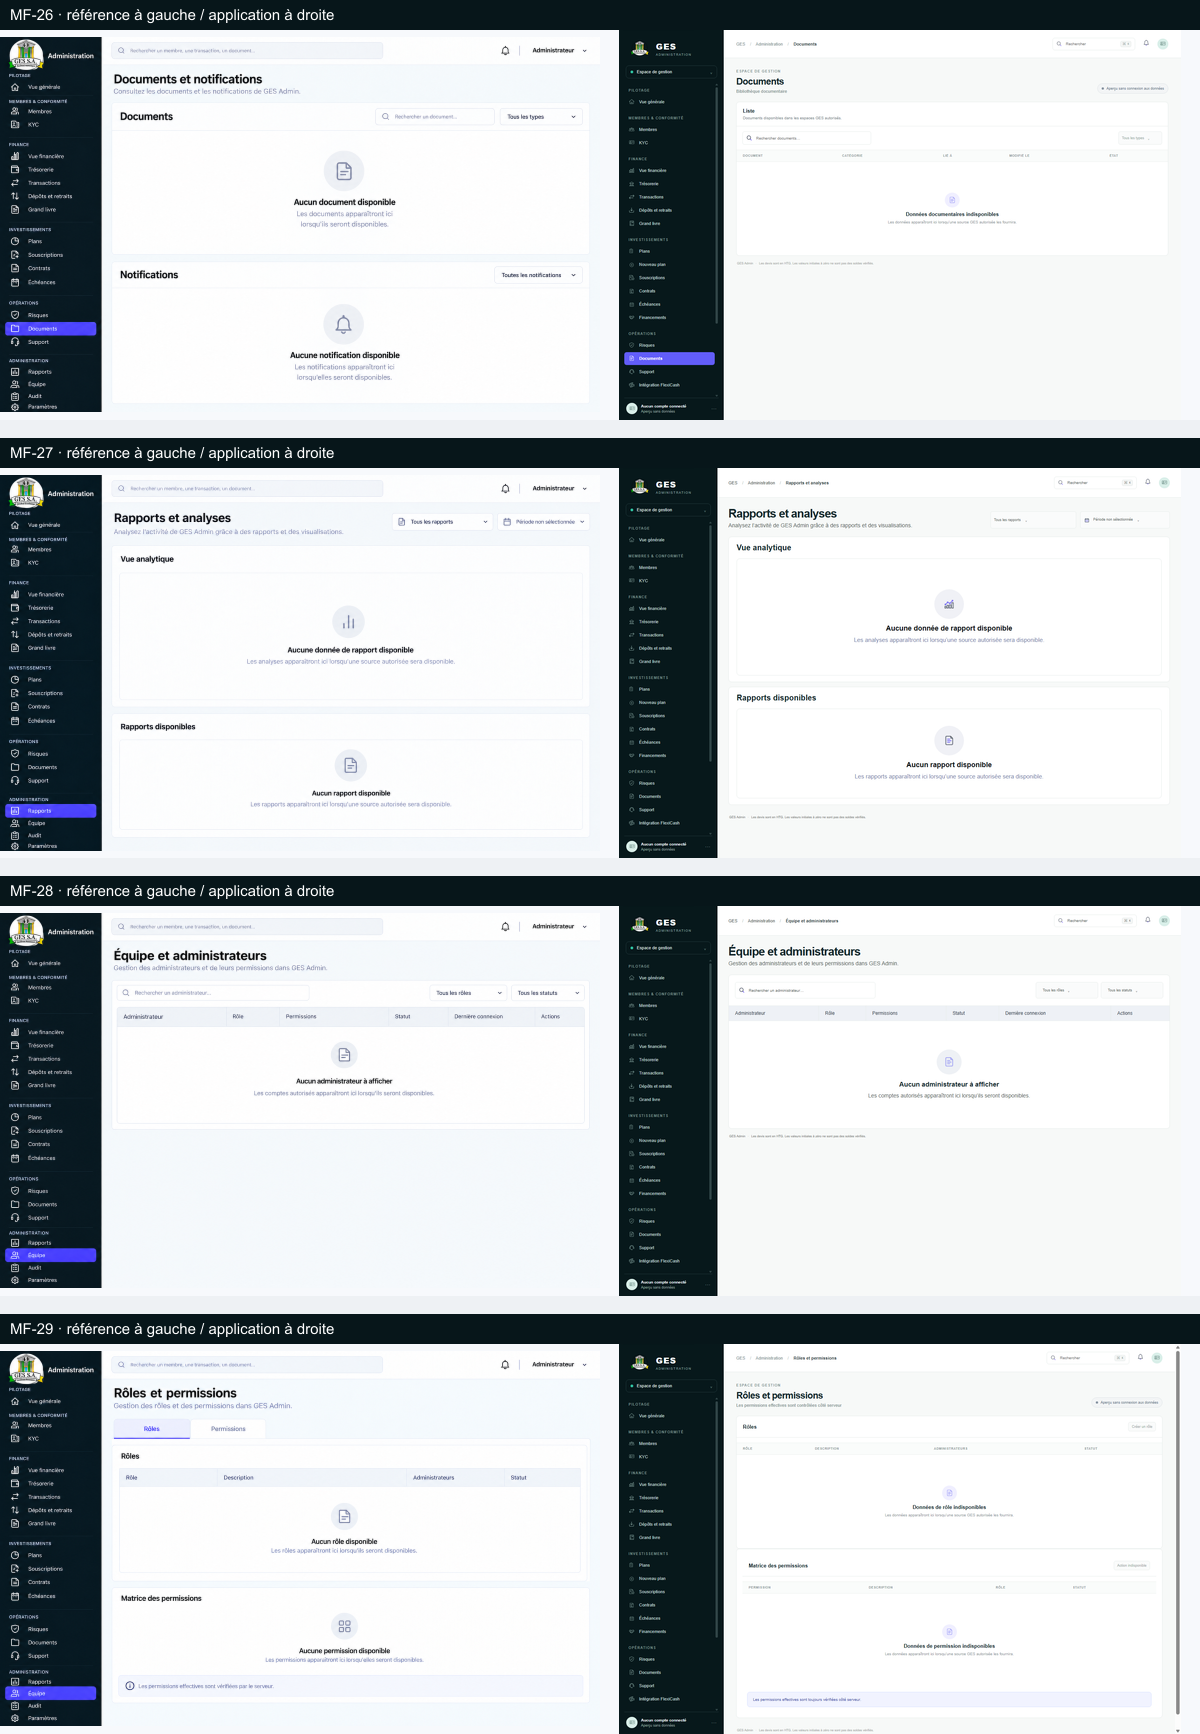
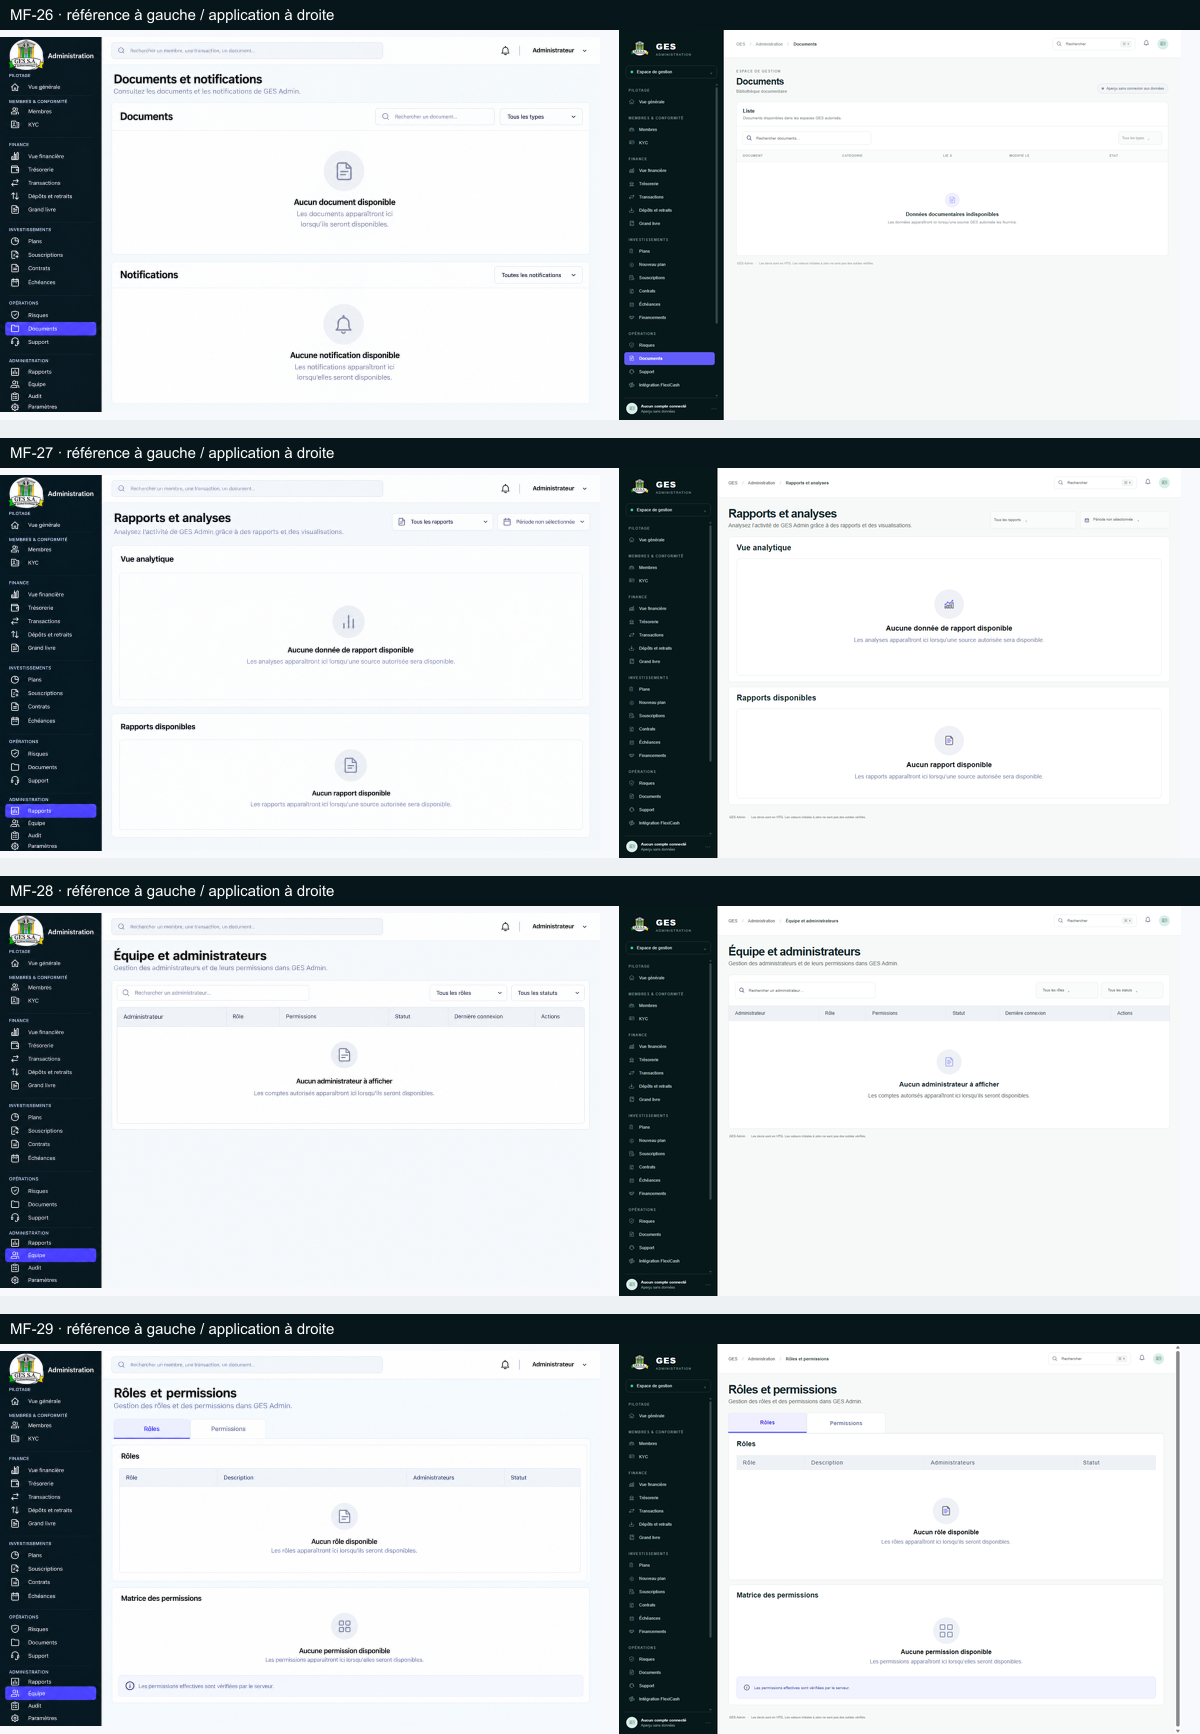
Align roles and permissions with MF-29

Changed region(s): [[0.5858, 0.7785, 0.74, 1.0], [0.74, 0.8408, 0.8325, 0.9031], [0.74, 0.9343, 0.8325, 0.9654]]

diff --git a/components/admin-shell.tsx b/components/admin-shell.tsx
@@ -26,7 +26,7 @@ const pages: Record<string, { title: string; subtitle: string }> = {
   "vue-financiere": { title: "Vue financière générale", subtitle: "Aperçu de la position financière de GES Admin en HTG et USD." }, tresorerie: { title: "Trésorerie", subtitle: "Positions de trésorerie" }, transactions: { title: "Transactions", subtitle: "Consultez et gérez l’ensemble des transactions." },
   "depots-retraits": { title: "Dépôts et retraits", subtitle: "Suivi des mouvements entrants et sortants" }, "grand-livre": { title: "Grand livre et rapprochement", subtitle: "Consultation du grand livre comptable et rapprochement des soldes." }, plans: { title: "Catalogue des plans d’investissement", subtitle: "Vue d’ensemble des plans d’investissement autorisés sur GES Admin." },
   souscriptions: { title: "Souscriptions", subtitle: "Vue d’ensemble des souscriptions effectuées sur GES Admin." }, contrats: { title: "Contrats d’investissement", subtitle: "Liste des contrats d’investissement enregistrés dans GES Admin." }, echeances: { title: "Échéances et distributions", subtitle: "Suivi des échéances et des distributions de capital et d’intérêts." }, financements: { title: "Financements GES", subtitle: "Gestion des dossiers de financement du GES Admin." }, "plans/nouveau": { title: "Nouveau plan d’investissement", subtitle: "Créer un nouveau plan d’investissement (brouillon)." },
-  risques: { title: "Risques et alertes", subtitle: "Surveillance des risques et des alertes de GES Admin." }, documents: { title: "Documents et notifications", subtitle: "Consultez les documents et les notifications de GES Admin." }, support: { title: "Assistance et tickets", subtitle: "Liste des demandes d’assistance et de support de GES Admin." }, rapports: { title: "Rapports et analyses", subtitle: "Analysez l’activité de GES Admin grâce à des rapports et des visualisations." }, equipe: { title: "Équipe et administrateurs", subtitle: "Gestion des administrateurs et de leurs permissions dans GES Admin." }, audit: { title: "Audit", subtitle: "Journal des actions administratives" }, parametres: { title: "Paramètres", subtitle: "Configuration de l’espace" }, notifications: { title: "Notifications", subtitle: "Centre de notifications administratives" }, "roles-permissions": { title: "Rôles et permissions", subtitle: "Les permissions effectives sont contrôlées côté serveur" }, "integrations-flexicash": { title: "Intégration FlexiCash", subtitle: "Les espaces GES et FlexiCash restent séparés" },
+  risques: { title: "Risques et alertes", subtitle: "Surveillance des risques et des alertes de GES Admin." }, documents: { title: "Documents et notifications", subtitle: "Consultez les documents et les notifications de GES Admin." }, support: { title: "Assistance et tickets", subtitle: "Liste des demandes d’assistance et de support de GES Admin." }, rapports: { title: "Rapports et analyses", subtitle: "Analysez l’activité de GES Admin grâce à des rapports et des visualisations." }, equipe: { title: "Équipe et administrateurs", subtitle: "Gestion des administrateurs et de leurs permissions dans GES Admin." }, audit: { title: "Audit", subtitle: "Journal des actions administratives" }, parametres: { title: "Paramètres", subtitle: "Configuration de l’espace" }, notifications: { title: "Notifications", subtitle: "Centre de notifications administratives" }, "roles-permissions": { title: "Rôles et permissions", subtitle: "Gestion des rôles et des permissions dans GES Admin." }, "integrations-flexicash": { title: "Intégration FlexiCash", subtitle: "Les espaces GES et FlexiCash restent séparés" },
 };
 
 const detailPages: Record<string, { title: string; subtitle: string }> = {
@@ -148,7 +148,7 @@ export function AdminShell({ section }: { section: string }) {
     </aside>
     {menuOpen && <button className="drawer-backdrop visible" type="button" aria-label="Fermer le menu" tabIndex={-1} onClick={closeMenu}/>}
     <main className="main-area" id="main-content" tabIndex={-1} inert={menuOpen}><header className="topbar"><button ref={menuButtonRef} className="mobile-menu-toggle" onClick={() => menuOpen ? closeMenu() : setMenuOpen(true)} aria-label={menuOpen ? "Fermer le menu" : "Ouvrir le menu"} aria-expanded={menuOpen} aria-controls="primary-navigation">{menuOpen ? <Image src="/assets/icons/close.webp" alt="" width={19} height={19}/> : <span className="menu-bars" aria-hidden="true"/>}</button><div className="breadcrumb">GES <span>/</span> Administration <span>/</span> <b>{page.title}</b></div><div className="top-actions"><label className="search"><Image src="/assets/icons/search.webp" alt="" width={15} height={15}/><input placeholder="Rechercher" aria-label="Rechercher" value={searchQuery} onChange={(event) => setSearchQuery(event.target.value)}/><kbd>⌘ K</kbd></label><Link href="/admin/notifications" className="bell" aria-label="Notifications"><Image src="/assets/icons/notification.webp" alt="" width={19} height={19}/></Link><div className="top-avatar"><Image src="/assets/icons/identity.webp" alt="" width={16} height={16}/></div></div></header>
-      <div className={`content ${key === "plans/nouveau" ? "plan-content" : ""}`}>{key === "souscriptions/dossier" && <Link className="detail-back" href="/admin/souscriptions">← Retour aux souscriptions</Link>}{key === "contrats/dossier" && <Link className="detail-back" href="/admin/contrats">← Retour aux contrats</Link>}{key === "risques/incident" && <Link className="detail-back" href="/admin/risques">← Retour aux alertes</Link>}{key === "support/conversation" && <Link className="detail-back" href="/admin/support">← Retour aux tickets</Link>}<div className="page-heading"><div>{key !== "transactions" && key !== "souscriptions/dossier" && key !== "contrats/dossier" && key !== "risques/incident" && key !== "support/conversation" && key !== "documents" && key !== "rapports" && key !== "equipe" && <div className="eyebrow">ESPACE DE GESTION</div>}<h1>{page.title}</h1>{page.subtitle && <p>{page.subtitle}</p>}</div><div className="heading-actions">{key === "rapports" && <div className="reports-page-filters"><button className="filter-button" disabled>Tous les rapports <span>⌄</span></button><button className="filter-button" disabled><Image src="/assets/icons/calendar.webp" alt="" width={16} height={16}/> Période non sélectionnée <span>⌄</span></button></div>}{key !== "souscriptions/dossier" && key !== "contrats/dossier" && key !== "risques/incident" && key !== "support/conversation" && key !== "documents" && key !== "rapports" && key !== "equipe" && <span className="status-pill preview-pill"><i/> Aperçu sans connexion aux données</span>}</div></div>
+      <div className={`content ${key === "plans/nouveau" ? "plan-content" : ""}`}>{key === "souscriptions/dossier" && <Link className="detail-back" href="/admin/souscriptions">← Retour aux souscriptions</Link>}{key === "contrats/dossier" && <Link className="detail-back" href="/admin/contrats">← Retour aux contrats</Link>}{key === "risques/incident" && <Link className="detail-back" href="/admin/risques">← Retour aux alertes</Link>}{key === "support/conversation" && <Link className="detail-back" href="/admin/support">← Retour aux tickets</Link>}<div className="page-heading"><div>{key !== "transactions" && key !== "souscriptions/dossier" && key !== "contrats/dossier" && key !== "risques/incident" && key !== "support/conversation" && key !== "documents" && key !== "rapports" && key !== "equipe" && key !== "roles-permissions" && <div className="eyebrow">ESPACE DE GESTION</div>}<h1>{page.title}</h1>{page.subtitle && <p>{page.subtitle}</p>}</div><div className="heading-actions">{key === "rapports" && <div className="reports-page-filters"><button className="filter-button" disabled>Tous les rapports <span>⌄</span></button><button className="filter-button" disabled><Image src="/assets/icons/calendar.webp" alt="" width={16} height={16}/> Période non sélectionnée <span>⌄</span></button></div>}{key !== "souscriptions/dossier" && key !== "contrats/dossier" && key !== "risques/incident" && key !== "support/conversation" && key !== "documents" && key !== "rapports" && key !== "equipe" && key !== "roles-permissions" && <span className="status-pill preview-pill"><i/> Aperçu sans connexion aux données</span>}</div></div>
       {key === "notifications" ? <NotificationsWorkspace query={searchQuery} onQueryChange={setSearchQuery}/> : key === "plans/nouveau" ? <><Link href="/admin/plans" className="plan-back">← Retour aux plans</Link><PlanForm/></> : overview ? <>{financial && <div className="module-notice">Valeurs initiales — les montants affichés sont à confirmer et ne constituent pas des soldes vérifiés.</div>}<div className={`metric-grid ${financial ? "financial-metrics" : ""}`}>{metrics.map(([label,value,caption])=><MetricCard key={label} label={label} value={value} caption={caption}/>)}</div>
       {financial && <UsdUnavailable/>}
       <div className={`overview-grid ${financial ? "financial-overview-grid" : "command-overview-grid"}`}><section className="panel"><div className="panel-head"><div><h2>{financial ? "Tendance de trésorerie" : "Tendance financière"}</h2></div>{financial && <button className="select-button" disabled title="Les données sont indisponibles">Période⌄</button>}</div><div className="chart-empty"><div className="chart-lines"><span/><span/><span/><span/></div><div className="chart-message">Aucune donnée disponible</div></div></section><section className="panel breakdown"><div className="panel-head"><div><h2>{financial ? "Obligations à venir" : "Répartition des investissements"}</h2></div>{financial && <button className="dots" disabled aria-label="Options indisponibles">···</button>}</div>{financial ? <div className="donut-wrap"><p>Aucune donnée disponible</p></div> : <div className="donut-wrap"><div className="donut"><div/></div><p>Aucune donnée disponible</p></div>}</section></div>

diff --git a/app/globals.css b/app/globals.css
@@ -77,3 +77,7 @@ a:focus-visible,button:focus-visible,input:focus-visible,select:focus-visible,te
 .reports-page-filters{display:flex;align-items:center;gap:10px}.reports-page-filters .filter-button{height:44px;min-width:220px;text-align:left}.reports-page-filters .filter-button:last-child{min-width:230px}.reports-page-filters .filter-button img{vertical-align:middle;margin-right:6px}.reports-analysis-panel,.reports-list-panel{padding:16px 20px;margin-bottom:12px}.reports-analysis-panel>h2,.reports-list-panel>h2{margin:0 0 16px;font:700 20px Arial,Helvetica,sans-serif}.reports-empty-state{min-height:300px;border:1px solid var(--line);border-radius:8px;display:flex;align-items:center;justify-content:center;flex-direction:column;text-align:center;padding:20px}.reports-list-panel .reports-empty-state{min-height:230px}.reports-empty-icon{width:76px;height:76px;border-radius:50%;background:#f0f1f6;display:grid;place-items:center;margin-bottom:14px}.reports-empty-icon img{width:30px;height:30px;opacity:.72}.reports-empty-state strong{font-size:18px;color:#101418}.reports-empty-state p{max-width:600px;margin:8px 0 0;color:#7c88ac;font-size:15px;line-height:1.5}@media(max-width:760px){.reports-page-filters{flex:1 1 100%;flex-wrap:wrap;gap:6px}.reports-page-filters .filter-button,.reports-page-filters .filter-button:last-child{flex:1;min-width:160px;height:38px}.reports-analysis-panel,.reports-list-panel{padding:13px}.reports-analysis-panel>h2,.reports-list-panel>h2{font-size:16px}.reports-empty-state{min-height:230px;padding:16px}.reports-list-panel .reports-empty-state{min-height:200px}.reports-empty-icon{width:64px;height:64px}.reports-empty-state strong{font-size:15px}.reports-empty-state p{font-size:12px}}
 .team-list-panel .module-empty{min-height:240px}.team-list-panel .module-empty h2{font-size:17px}.team-list-panel .module-empty p{font-size:14px}.team-list-panel .module-empty-icon{background:#eef1f5}
 .team-list-panel .module-empty{min-height:275px}.team-list-panel th{background:#eef1f6;border-right:1px solid var(--line);color:#3f4d57}.team-list-panel th:last-child{border-right:0}.team-list-panel .table-wrap{scrollbar-width:none}.team-list-panel .table-wrap::-webkit-scrollbar{display:none}
+.role-permission-tabs{display:flex;align-items:stretch;border-bottom:1px solid var(--line);margin:0 0 0 -1px}.role-permission-tabs button{min-width:202px;height:52px;border:1px solid var(--line);border-bottom:0;border-radius:8px 8px 0 0;background:#fff;color:#7c88ac;font:600 14px Arial,sans-serif;cursor:pointer}.role-permission-tabs button.selected{background:#f0efff;color:#514be6;border-bottom:3px solid #625dfa}.role-list-panel,.permission-matrix-panel{padding:16px 20px;margin:0 0 12px}.role-list-panel>h2,.permission-matrix-panel>h2{margin:0 0 18px;font:700 18px Arial,Helvetica,sans-serif}.role-list-panel th{background:#eef1f6;border-right:1px solid var(--line);text-transform:none;font-size:14px;font-weight:500;color:#43505e}.role-permission-empty{min-height:225px;display:flex;align-items:center;justify-content:center;flex-direction:column;text-align:center;padding:18px}.permission-matrix-panel .role-permission-empty{min-height:180px}.role-permission-empty-icon{height:68px;width:68px;margin-bottom:12px;border-radius:50%;background:#eef1f6;display:grid;place-items:center}.role-permission-empty-icon img{width:30px;height:30px;opacity:.75}.role-permission-empty strong{font-size:16px;color:#11181b}.role-permission-empty p{margin:5px 0 0;color:#7c88ac;font-size:14px;line-height:1.5}.permission-matrix-panel .module-notice{display:flex;align-items:center;gap:10px;min-height:56px;margin:0;padding:10px 16px}.permission-matrix-panel .module-notice img{flex:0 0 auto}.role-list-panel .table-wrap{overflow-x:auto}@media(max-width:700px){.role-permission-tabs button{min-width:0;flex:1}.role-list-panel,.permission-matrix-panel{padding:13px}.role-list-panel>h2,.permission-matrix-panel>h2{font-size:16px}.role-list-panel th{white-space:nowrap}.role-permission-empty{min-height:190px}.permission-matrix-panel .role-permission-empty{min-height:175px}.role-permission-empty strong{font-size:14px}.role-permission-empty p{font-size:12px}.permission-matrix-panel .module-notice{align-items:flex-start;font-size:9px}}
+.role-list-panel .role-permission-empty{min-height:265px}.permission-grid-icon{height:68px;width:68px;margin-bottom:12px;border-radius:50%;background:#eef1f6;display:grid;grid-template-columns:repeat(2,14px);grid-template-rows:repeat(2,14px);align-content:center;justify-content:center;gap:5px}.permission-grid-icon i{border:2px solid #7c88ac;border-radius:3px}
+@media(max-width:700px){.role-list-panel .table-wrap{overflow-x:hidden}.role-list-panel table{width:100%;min-width:0;table-layout:fixed}.role-list-panel th{padding:8px 4px;font-size:9px;white-space:normal}.role-list-panel tbody,.role-list-panel tbody tr,.role-list-panel tbody td{display:block;width:100%}.role-list-panel tbody td{padding:0}.role-list-panel .role-permission-empty{box-sizing:border-box;width:100%;min-height:185px;padding:14px 8px}.role-list-panel .role-permission-empty strong{font-size:13px}.role-list-panel .role-permission-empty p{font-size:11px}.role-list-panel .role-permission-empty-icon{width:56px;height:56px}}
+@media(max-width:700px){.role-list-panel .role-permission-empty{width:calc(100vw - 56px);flex:0 0 auto}.role-list-panel .role-permission-empty p{max-width:100%}}

diff --git a/components/module-workspace.tsx b/components/module-workspace.tsx
@@ -83,8 +83,9 @@ if (sectionKey === "rapports") return <>
   </>;
   if (sectionKey === "parametres") return <><div className="module-notice">Les paramètres restent indisponibles sans source GES autorisée.</div><div className="module-settings-grid">{["Profil de l’organisation", "Préférences financières", "Sécurité", "Notifications administratives"].map((title) => <section className="panel module-subpanel" key={title}><h2>{title}</h2><EmptyState title="Données indisponibles" searching={false}/></section>)}</div><button className="primary-button" disabled>Enregistrer les modifications</button></>;
   if (sectionKey === "roles-permissions") return <>
-    <section className="panel list-panel"><div className="module-panel-header"><h2>Rôles</h2><button disabled className="filter-button">Créer un rôle</button></div><div className="table-wrap"><table><thead><tr>{["RÔLE", "DESCRIPTION", "ADMINISTRATEURS", "STATUT"].map((label) => <th key={label}>{label}</th>)}</tr></thead><tbody><tr><td colSpan={4}><EmptyState title="Données de rôle indisponibles" searching={false}/></td></tr></tbody></table></div></section>
-    <section className="panel list-panel module-subpanel"><div className="module-panel-header"><h2>Matrice des permissions</h2><button disabled className="filter-button">Action indisponible</button></div><div className="table-wrap"><table><thead><tr>{["PERMISSION", "DESCRIPTION", "RÔLE", "STATUT"].map((label) => <th key={label}>{label}</th>)}</tr></thead><tbody><tr><td colSpan={4}><EmptyState title="Données de permission indisponibles" searching={false}/></td></tr></tbody></table></div><div className="module-notice subtle">Les permissions effectives sont toujours vérifiées côté serveur.</div></section>
+    <div className="role-permission-tabs" role="tablist" aria-label="Gestion des rôles et permissions"><button type="button" role="tab" aria-selected={activeTab === 0} className={activeTab === 0 ? "selected" : ""} onClick={() => { setActiveTab(0); document.getElementById("role-catalog")?.scrollIntoView({ behavior: "smooth", block: "start" }); }}>Rôles</button><button type="button" role="tab" aria-selected={activeTab === 1} className={activeTab === 1 ? "selected" : ""} onClick={() => { setActiveTab(1); document.getElementById("permission-matrix")?.scrollIntoView({ behavior: "smooth", block: "start" }); }}>Permissions</button></div>
+    <section id="role-catalog" className="panel module-subpanel role-list-panel"><h2>Rôles</h2><div className="table-wrap"><table><thead><tr>{["Rôle", "Description", "Administrateurs", "Statut"].map((label) => <th key={label}>{label}</th>)}</tr></thead><tbody><tr><td colSpan={4}><div className="role-permission-empty"><div className="role-permission-empty-icon"><Image src="/assets/icons/document.webp" alt="" width={30} height={30}/></div><strong>Aucun rôle disponible</strong><p>Les rôles apparaîtront ici lorsqu’ils seront disponibles.</p></div></td></tr></tbody></table></div></section>
+    <section id="permission-matrix" className="panel module-subpanel permission-matrix-panel"><h2>Matrice des permissions</h2><div className="role-permission-empty"><div className="permission-grid-icon" aria-hidden="true"><i/><i/><i/><i/></div><strong>Aucune permission disponible</strong><p>Les permissions apparaîtront ici lorsqu’elles seront disponibles.</p></div><div className="module-notice subtle"><Image src="/assets/icons/info.webp" alt="" width={18} height={18}/>Les permissions effectives sont vérifiées par le serveur.</div></section>
   </>;
   if (sectionKey === "integrations-flexicash") return <><div className="module-notice">Les espaces d’administration GES et FlexiCash restent séparés.</div><div className="module-two-panels"><section className="panel module-subpanel"><h2>État de l’intégration</h2><EmptyState title="Données d’intégration indisponibles" searching={false}/></section><section className="panel module-subpanel"><h2>Opérations GES liées</h2><EmptyState title="Données d’opérations indisponibles" searching={false}/></section></div></>;
   if (!page) return <GenericTable sectionKey={sectionKey} page={{ description: "Données GES disponibles.", filters: ["Filtres", "Période"], columns: ["RÉFÉRENCE", "DESCRIPTION", "DATE", "STATUT", "MONTANT (HTG)"], empty: "Aucune donnée disponible" }} query={query} onQueryChange={onQueryChange} activeTab={activeTab} setActiveTab={setActiveTab}/>;

diff --git a/design/qa/README.md b/design/qa/README.md
@@ -169,3 +169,4 @@ Captures MF-25 : admin-support-conversation-1440x1000.png et admin-support-conve
 Captures MF-26 : admin-documents-notifications-1440x1000.png et admin-documents-notifications-390x844.png. La route Documents presente les deux panneaux de la reference; recherche documentaire active, filtre de type et filtre de notifications inactifs faute de source GES. Aucun fichier, notification, identite, date ou montant fictif.
 Captures MF-27 : admin-rapports-1440x1000.png et admin-rapports-390x844.png. Rapports et analyses utilisent des filtres inactifs faute de source autorisee; vues analytiques et catalogue restent vides. Aucun chiffre, periode, rapport ou statut fictif.
 Captures MF-28 : admin-equipe-1440x1000.png et admin-equipe-390x844.png. Colonnes conformes au Master Frame; aucun administrateur, role, permission ou acces fictif. Recherche disponible, filtres inactifs sans source GES; tableau vide et defilable sur mobile.
+Captures MF-29 : admin-roles-permissions-1440x1000.png et admin-roles-permissions-390x844.png. Onglets navigables vers le catalogue et la matrice; aucun role ou droit n'est preconfigure. Les decisions effectives restent sous controle serveur.
